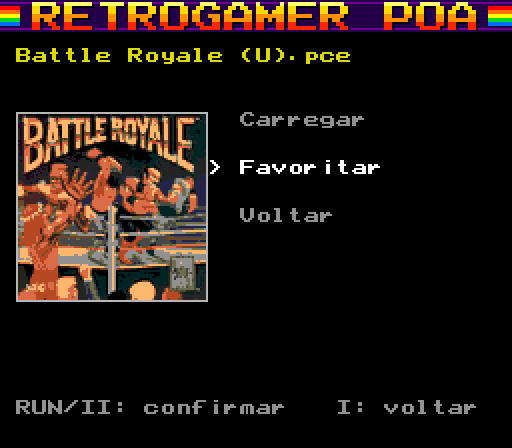
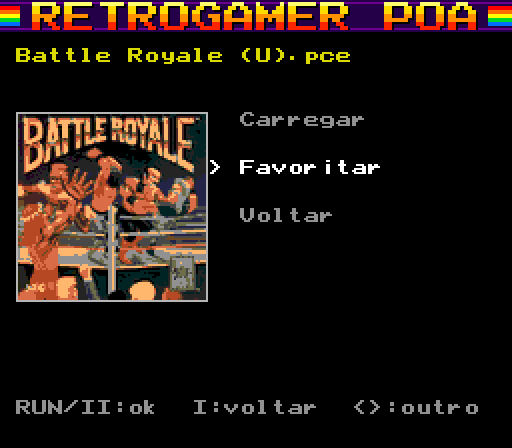
PT-BR v15: left/right on the game screen, real build date, 2 s splash
- New bank 12 module ($8200, always mapped): game_nav moves the game
  screen to the previous/next file in the folder, updating the
  browser's index/row/page locals, cover and favourite state.
- The about screen's date/time came from flash bank $40, which on the
  cart is the firmware area (31.07.2012); read them from OS bank 0.
- Splash 120 frames.

diff --git a/tools/test_v15.py b/tools/test_v15.py
@@ -1,0 +1,74 @@
+"""v15: LEFT/RIGHT on the game screen move to the previous/next game."""
+import sys, os, hashlib, struct
+sys.path.insert(0, os.path.dirname(os.path.abspath(__file__)))
+sys.stdout.reconfigure(encoding='utf-8')
+from machine import Machine, SDCard
+from fatinject import inject
+ROOT = os.path.dirname(os.path.dirname(os.path.abspath(__file__)))
+OUT = os.path.join(ROOT, 'out')
+rom = open(os.path.join(OUT, 'TOS.PCE'), 'rb').read()
+txt = lambda m: [l for l in m.text(rows=28).splitlines() if l.split('|', 1)[1].strip('|').strip()]
+name = lambda m: m.text(rows=28).splitlines()[3][4:].strip('|')
+bar = lambda m: m.text(rows=28).splitlines()[26][4:].strip('|')
+
+def boot():
+    sd = SDCard(os.path.join(ROOT, 'sdcard_dump'))
+    lba0 = inject(sd, b'RGPOA   DAT', open(os.path.join(OUT, 'RGPOA.DAT'), 'rb').read())
+    m = Machine(rom, sd); m.run_frames(650)
+    for k in ['DOWN', 'DOWN', 'II']: m.press(k, 3, 30)
+    m.run_frames(100)
+    return m, sd, lba0
+
+def flash_hash(m):
+    h = hashlib.md5()
+    ow = m.write
+    def w(a, v):
+        if 0x40 <= m.mpr[a >> 13] < 0xf8: h.update(bytes([m.mpr[a >> 13], (a >> 8) & 0xff, a & 0xff, v]))
+        ow(a, v)
+    m.write = w
+    return h
+
+def load_now(m):
+    h = flash_hash(m)
+    m.pad = 8; m.run_frames(4); m.pad = 0; m.run_frames(400)
+    return h.hexdigest()
+
+m, sd, lba0 = boot()
+for k in ['DOWN'] * 3: m.press(k, 2, 4)
+m.press('RUN', 3, 60)
+print('start:', name(m), '| cover', m.ram[0x42])
+m.press('RIGHT', 2, 40); print('RIGHT ->', name(m), '| cover', m.ram[0x42], '| index', m.ram[0x1ff6])
+for i in range(17): m.press('RIGHT', 2, 30)
+print('17 more ->', name(m), '| index', m.ram[0x1ff6], 'page start', m.ram[0x1ff3])
+m.press('LEFT', 2, 40); print('LEFT ->', name(m), '| index', m.ram[0x1ff6])
+target = name(m); idx = m.ram[0x1ff6]
+m.press('DOWN', 2, 10); m.press('RUN', 3, 60)
+d = sd.block(lba0 + 1)
+fav = [d[16 + e * 64 + 10:16 + e * 64 + 64].split(b'\0')[0].decode('latin-1') for e in range(7) if struct.unpack_from('<I', d, 16 + e * 64)[0]]
+print('favourited:', fav)
+m.press('I', 3, 90)
+print('Voltar -> bar:', bar(m), '| page:', txt(m)[2:3])
+m.press('DOWN', 2, 20); print('DOWN in browser ->', bar(m))
+
+m1, _, _ = boot()                      # load via the game screen after navigating
+for k in ['DOWN'] * 3: m1.press(k, 2, 4)
+m1.press('RUN', 3, 60)
+for i in range(idx - 3):
+    m1.press('RIGHT', 2, 30)
+print('navigated to', name(m1))
+a = load_now(m1)
+m2, _, _ = boot()                      # the same game straight from the list
+for i in range(idx // 20): m2.press('RIGHT', 2, 40)
+for i in range(idx % 20): m2.press('DOWN', 2, 4)
+print('list cursor on', bar(m2))
+m2.press('RUN', 3, 60)
+b = load_now(m2)
+print('same flash writes:', a == b)
+
+r, _, _ = boot()                       # root: LEFT from the first file must not reach a folder
+r.press('I', 3, 120)
+rows = r.text(rows=28).splitlines()
+i240 = [i for i, l in enumerate(rows) if '240pSuite' in l][0] - 5
+for k in ['DOWN'] * i240: r.press(k, 2, 4)
+r.press('RUN', 3, 60); before = name(r)
+r.press('LEFT', 2, 40); print('root: LEFT from', before, '->', name(r))

diff --git a/tools/build.py b/tools/build.py
@@ -10,8 +10,9 @@ import art
 import cart_asm
 import search_asm
 import loader_asm
+import extra_asm
 
-MOD_VERSION = 14
+MOD_VERSION = 15
 VERSION_STR = 'PT-BR v%d' % MOD_VERSION
 STOCK_MD5 = '38241a96caa1573f9caf20a2b52dd3e8'
 ROOT = os.path.dirname(os.path.dirname(os.path.abspath(__file__)))
@@ -109,7 +110,7 @@ EXTRA = {  # new strings used by the mod's own code
 HELP = [('II', 'Abrir'), ('RUN', 'Jogar'), ('I', 'Voltar'), ('SEL', 'Tema')]  # top help line
 SPLASH_LINES = [('Turbo EverDrive OS', 2), (VERSION_STR, 11), ('', 0), ('por Antonio & The Nobre', 5),
                 ('', 0), ('Aperte um botão', 3)]
-SPLASH_FRAMES = 90       # 1.5 s, or until a button is pressed
+SPLASH_FRAMES = 120      # 2 s, or until a button is pressed
 BG_SCROLL = 240          # BAT row 30 is the top screen row: rows 30-31 hold the banner
 SPLASH_BANKS = (14, 15)  # tiles, BAT map
 STR_BASE = 0x4110  # free space in bank 3 (mapped at $4000 by the OS)
@@ -424,7 +425,7 @@ def build(src, dst):
     tsym.update({'B15_BANPAL': 0x7000, 'B15_SPLPAL': 0x7020, 'B15_BANMAP': 0x7040,
                  'B15_HELPMAP': 0x70c0, 'B15_BANTILES': 0x7100})
     tables += cart_asm.tables(enc)
-    tsym.update({'SEARCH_BANK': SPLASH_BANKS[1], 'SEARCH_ENTRY': search_asm.ORG})
+    tsym.update({'SEARCH_BANK': SPLASH_BANKS[1], 'SEARCH_ENTRY': search_asm.ORG, 'GAME_NAV': extra_asm.ORG})
     # loading progress: the OS's RAM copy routine, rebuilt with a bar block per 8 KB bank
     lsym = {'PCNT': loader_asm.PCNT, 'BAR_FULL': 0x71c1}
     lcode, lsym = assemble(loader_asm.ROUTINE, loader_asm.RAM_ORG, lsym)
@@ -443,6 +444,10 @@ def build(src, dst):
     scode, _ = assemble(search_asm.SRC + search_asm.tables(enc), search_asm.ORG, dict(tsym))
     if len(scode) > 0x800: raise SystemExit('search module too big: %d' % len(scode))
     rom.put(foff(SPLASH_BANKS[1], search_asm.ORG), scode)
+    xcode, xsym = assemble(extra_asm.SRC, extra_asm.ORG, dict(tsym))   # bank 12, always at $8000
+    assert xsym['game_nav'] == extra_asm.ORG
+    if extra_asm.ORG + len(xcode) > 0xa000: raise SystemExit('bank 12 module too big')
+    rom.put(foff(12, extra_asm.ORG), xcode)
 
     # 5. about screen: version text + credits; splash hook (bank 11, $a000)
     sym['splash'] = tsym['splash']
@@ -488,6 +493,10 @@ def build(src, dst):
     date_w = now.day | now.month << 5 | (now.year - 1980) << 9
     time_w = (now.hour * 3600 + now.minute * 60 + now.second) // 2
     rom.d[0xf4:0xf8] = bytes([date_w >> 8, date_w & 0xff, time_w >> 8, time_w & 0xff])
+    # the OS reads them through flash bank $40, which on the cart is the firmware area (it showed
+    # the cart's own 2012 date); read them from this OS's bank 0 instead
+    rom.expect(0x1f2e, 'a9 40 53 08 ad f4 60')
+    rom.d[0x1f2f] = 0x00
     print('  build date %s' % now.strftime('%d.%m.%Y %H:%M:%S'))
     open(dst, 'wb').write(rom.d)
     print('built %s  (%s)  md5 %s' % (dst, VERSION_STR, hashlib.md5(rom.d).hexdigest()))

diff --git a/tools/extra_asm.py b/tools/extra_asm.py
@@ -1,0 +1,152 @@
+"""Extra code in bank 12 (always mapped at $8000 by the OS; free from $8200).
+
+game_nav: on the game screen, LEFT/RIGHT move to the previous/next game in the folder.
+The browser's own variables (index, row, page start) are updated so "Carregar" loads the
+new game and "Voltar" leaves the cursor on it.
+"""
+
+ORG = 0x8200
+
+SRC = r'''
+NIDX = $2057            ; target index (free while the game screen is up)
+NKEY = $2046
+
+game_nav:               ; A = $80 LEFT / $20 RIGHT -> C=0 if another game was opened
+    sta NKEY
+    ldy #$0e            ; browser local: index of the selected entry
+    lda [$00],y
+    tax
+    lda $3a63           ; entries in the folder (the OS shows at most 224)
+    bne gn_max
+    lda $3a62
+    cmp #224
+    bcc gn_cnt
+gn_max:
+    lda #224
+gn_cnt:
+    sta TMP
+    lda NKEY
+    and #$20
+    beq gn_left
+    inx
+    cpx TMP
+    bcs gn_no
+    bra gn_try
+gn_left:
+    txa
+    beq gn_no
+    dex
+gn_try:
+    stx NIDX
+    cla
+    jsr os_open
+    lda $3b68           ; folders have size 0: games never sit between folders, so stop there
+    ora $3b69
+    ora $3b6a
+    ora $3b6b
+    bne gn_file
+    ldy #$0e            ; put the OS's "current file" back
+    lda [$00],y
+    tax
+    cla
+    jsr os_open
+gn_no:
+    sec
+    rts
+gn_file:
+    lda NIDX            ; browser locals: index, row, page start
+    ldy #$0e
+    sta [$00],y
+    iny
+    cla
+    sta [$00],y
+    lda NIDX
+    jsr div20
+    ldy #$09
+    sta [$00],y
+    sta TMP
+    lda NIDX
+    sec
+    sbc TMP
+    ldy #$0b
+    sta [$00],y
+    ldx #$03
+gn_fc:
+    lda $3b64,x
+    sta FILECL,x
+    dex
+    bpl gn_fc
+    stz AART
+    stz AFAV
+    stz MSG+1
+    lda FLAGS
+    and #$02
+    beq gn_ok
+    sei
+    jsr name_hash       ; cover and favourite state for the new game
+    ldx #$03
+gn_h:
+    lda H,x
+    sta SEL,x
+    dex
+    bpl gn_h
+    jsr art_load
+    bcs gn_noart
+    inc AART
+gn_noart:
+    jsr fav_scan
+    bcs gn_nofav
+    lda FND_S
+    cmp #$ff
+    beq gn_nofav
+    inc AFAV
+gn_nofav:
+    lda <$f7
+    sta $0000
+    cli
+gn_ok:
+    clc
+    rts
+
+name_hash:              ; H = hash of NAMEBUF, same rules as the bottom-bar hash and artpack.py
+    stz H
+    stz H+1
+    stz H+2
+    stz H+3
+    clx
+nh_l:
+    lda NAMEBUF,x
+    beq nh_done
+    cpx #60
+    bcs nh_done
+    cmp #$21
+    bcc nh_n
+    cmp #$7f
+    bcs nh_n
+    cmp #$2e
+    beq nh_n
+    cmp #$61
+    bcc nh_a
+    cmp #$7b
+    bcs nh_a
+    sbc #$1f            ; carry clear: -$20
+nh_a:
+    clc
+    adc H
+    sta H
+    lda H+1
+    adc #$00
+    sta H+1
+    clc
+    lda H+2
+    adc H
+    sta H+2
+    lda H+3
+    adc H+1
+    sta H+3
+nh_n:
+    inx
+    bra nh_l
+nh_done:
+    rts
+'''

diff --git a/tools/machine.py b/tools/machine.py
@@ -164,6 +164,8 @@ class Machine:
     def restore(blob):
         import pickle
         m = pickle.loads(blob)
+        for k, v in (('erase_armed', False), ('erase_busy', 0), ('erase_reads', 0)):
+            m.__dict__.setdefault(k, v)          # snapshots from older emulator versions
         m.cpu.irq_pending = m._irq
         return m
 
@@ -194,9 +196,7 @@ class Machine:
         if len(self.flash_writes) > 100000: self.flash_writes = self.flash_writes[-1000:]
 
     def flash_read(self, bank, off):
-        if 0x40 <= bank < 0x50:  # flash area holding the installed OS (= this ROM)
-            return self.rom[(bank - 0x40) * 0x2000 + off]
-        return 0xff
+        return 0xff              # the cart's other flash areas (firmware, games) are not modelled
 
     def cart_read(self, r):
         if r in (0, 1):  # reg1 mirrors reg0 (OS reads with TAI $e000)

diff --git a/tools/cart_asm.py b/tools/cart_asm.py
@@ -1057,7 +1057,7 @@ MENU_STRINGS = {  # padded so a shorter text erases a longer one
     's_unfav':   '  Remover favorito',
     's_back':    '  Voltar          ',
     's_cur':     '>',
-    's_hint':    'RUN/II: confirmar   I: voltar',
+    's_hint':    'RUN/II:ok  I:voltar  <>:outro',
     's_added':   'Adicionado aos favoritos!     ',
     's_removed': 'Removido dos favoritos.       ',
     's_full':    'Favoritos cheios (56).        ',
@@ -1168,11 +1168,17 @@ ac_loop:
     bne ac_up
     bit #$40            ; down
     bne ac_down
+    bit #$a0            ; left / right: previous / next game (bank 12)
+    bne ac_lr
     bit #$0a            ; II or RUN
     bne ac_ok
     bit #$01            ; I
     bne ac_back
     bra ac_loop
+ac_lr:
+    jsr GAME_NAV
+    jcs ac_loop
+    jmp ac_cls
 ac_up:
     lda ACUR
     bne ac_up1

diff --git a/README.md b/README.md
@@ -3,7 +3,7 @@
 Mod do sistema operacional (OS) do **Turbo EverDrive v1** da Krikzz para PC Engine / TurboGrafx-16.
 Base: OS v4 original, de https://krikzz.com/pub/support/turbo-everdrive/v1/os/v4/.
 
-**Versão atual: PT-BR v14** · Mod: **Retrogamer POA**, por **Antonio & The Nobre**
+**Versão atual: PT-BR v15** · Mod: **Retrogamer POA**, por **Antonio & The Nobre**
 
 ![Splash](docs/screenshots/splash.png)
 
@@ -13,7 +13,7 @@ Base: OS v4 original, de https://krikzz.com/pub/support/turbo-everdrive/v1/os/v4
 |---|---|
 | ![Menu](docs/screenshots/menu.png) | **Interface em português** com acentos de verdade: a fonte ganhou á à â ã é ê í ó ô õ ú ç, maiúsculas, ü º ª. **Banner Retrogamer POA** no topo e **linha de ajuda** com os botões. |
 | ![Capa](docs/screenshots/capa.png) | **Capa do jogo** ao parar o cursor sobre ele. São 2.372 nomes de arquivo com capa, entre PC Engine e SuperGrafx, incluindo hacks, traduções e "Sounds". |
-| ![Ações](docs/screenshots/acoes.png) | **Tela do jogo** ao apertar RUN: capa, **Carregar**, **Favoritar / Remover favorito** e **Voltar**. Os jogos carregados entram na lista de **recentes**. |
+| ![Ações](docs/screenshots/acoes.png) | **Tela do jogo** ao apertar RUN ou II: capa, **Carregar**, **Favoritar / Remover favorito** e **Voltar**. **← / →** passam para o jogo anterior / seguinte da pasta. Os jogos carregados entram na lista de **recentes**. |
 | ![Menu](docs/screenshots/menu_principal.png) | **Menu** (botão I na raiz): **Favoritos**, **Recentes**, **Buscar** e **Sobre**. |
 | ![Favoritos](docs/screenshots/favoritos.png) | **Listas de favoritos e recentes**: escolher um jogo leva direto até ele (o OS entra na pasta, o cursor vai até o jogo e a tela do jogo abre). Favoritos e recentes ficam salvos no `RGPOA.DAT`. |
 | ![Busca](docs/screenshots/busca_teclado.png) | **Busca em todo o cartão**: digite parte do nome no teclado da tela (direcional + II, I apaga, RUN busca). O mod percorre todas as pastas do SD, sem gravar nada. |
@@ -38,7 +38,7 @@ Os temas ficam no `RGPOA.DAT`, então dá para criar, editar ou remover sem regr
 
 Sem `RGPOA.DAT` (ou com um `.dat` sem temas), o firmware usa os 8 temas de fábrica com o banner padrão.
 
-Ao ligar aparece uma **splash screen** por 1,5 segundo. Qualquer botão pula.
+Ao ligar aparece uma **splash screen** por 2 segundos. Qualquer botão pula.
 
 ## Botões
 
@@ -111,6 +111,7 @@ python tools/test_v10.py     # temas e banners do RGPOA.DAT
 python tools/test_v11.py     # busca global
 python tools/test_v12.py     # barra de progresso (gravações na flash idênticas às da versão anterior)
 python tools/test_v14.py     # splash por tema e barra nas cores do tema
+python tools/test_v15.py     # ← / → na tela do jogo
 python tools/screenshots.py  # gera docs/screenshots/
 ```
 

diff --git a/docs/TECNICO.md b/docs/TECNICO.md
@@ -160,7 +160,7 @@ O código do banco 13 roda com interrupções desligadas sempre que mexe no VDC 
 - O teste `test_v12.py` confere no emulador que a sequência de gravações na flash é idêntica à do OS sem a barra.
 
 ### Data e hora de compilação
-- No boot, o OS lê os bytes `$F4`–`$F7` do cabeçalho da cópia instalada na flash (banco `$40`) e guarda em `$2B8A`–`$2B8D`. Só a tela Sobre usa esses valores.
+- No boot, o OS (`$FF29`) lê 4 bytes do banco de flash `$40`, offset `$F4`, e guarda em `$2B8A`–`$2B8D`; só a tela Sobre usa esses valores. No console, esse banco é a área do firmware do cartucho (mostrava 31.07.2012 16:42:54, a data do firmware), não o OS. O mod troca o banco lido por `$00`, o próprio OS, onde o build grava a data.
 - Formato (big-endian): data no padrão FAT (dia bits 0–4, mês 5–8, ano − 1980 nos bits 9–15); hora = segundos desde a meia-noite ÷ 2. O OS original deixa `FF FF FF FF`, por isso mostrava "31.15.2235".
 - `build.py` grava ali o momento da compilação.
 
@@ -172,6 +172,11 @@ O código do banco 13 roda com interrupções desligadas sempre que mexe no VDC 
 ### Barra nas cores do tema e animação no apagar
 - Os tiles da barra usam a paleta 7, preenchida (`bar_frame`) com as cores atuais do tema: fundo da barra (CRAM `$32`), fundo da tela (`$02`), pastas (`$21`) e cursor (`$01`).
 - Antes de gravar, o OS apaga a flash com outra rotina em RAM (`$FB0D`, id `$04`): ela envia o comando de apagar para cada banco e espera num laço único até o chip terminar. Como não há andamento real para medir, o mod troca a rotina (`er_hook` → `prog_erase`) por uma cópia com uma animação: a cada 65.536 consultas ao status (~0,15 s), um bloco anda uma posição na barra vazia. Só escrita no VDC, nada é lido da flash.
+
+### ← / → na tela do jogo
+- Código no banco 12 (`$8200`, `tools/extra_asm.py`): o OS mantém esse banco sempre em `$8000` (MPR4), então ele é chamado direto, sem trocar de banco.
+- `game_nav` usa as variáveis locais do navegador: índice (`sp+$0E`), linha (`sp+$09`) e início da página (`sp+$0B`). Também usa o total de itens (`$3A62`, máximo 224).
+- Abre o item vizinho com `open()` do OS; se for pasta (tamanho 0), não anda e reabre o item atual. Se for arquivo, atualiza as três variáveis, o cluster do arquivo, a capa (hash calculado do nome em `$3A64`) e o estado de favorito, e redesenha a tela. "Carregar" e "Voltar" passam a usar o jogo novo.
 
 ### Salvamento do tema
 - Toda gravação passa por `write_scr` (CMD24). Ela só aceita os setores 0–10 do `RGPOA.DAT` e recusa o arquivo se ele estiver antes de `$30B5`.

diff --git a/CHANGELOG.md b/CHANGELOG.md
@@ -1,5 +1,10 @@
 # Histórico
 
+## PT-BR v15
+- **Tela do jogo: ← / →** passam para o jogo anterior / seguinte da pasta (capa, favorito, Carregar e Voltar acompanham).
+- **Data/Hora Compil.** corrigidas no console: o OS lia esses bytes de uma área da flash que no cartucho é a do firmware (mostrava 31.07.2012). Agora são lidos do próprio OS.
+- Splash de 2 segundos.
+
 ## PT-BR v14
 - **Splash por tema**: cada tema pode ter a própria tela de abertura (PNG 256×224 no `RGPOA.DAT`). A release traz splash para 9 temas, incluindo **Retrochimp Games** e **Maddrugamers**; o Original continua com a splash padrão.
 - No boot o mod já lê o `RGPOA.DAT`, então o tema salvo (cores, banner e splash) aparece desde a abertura.
